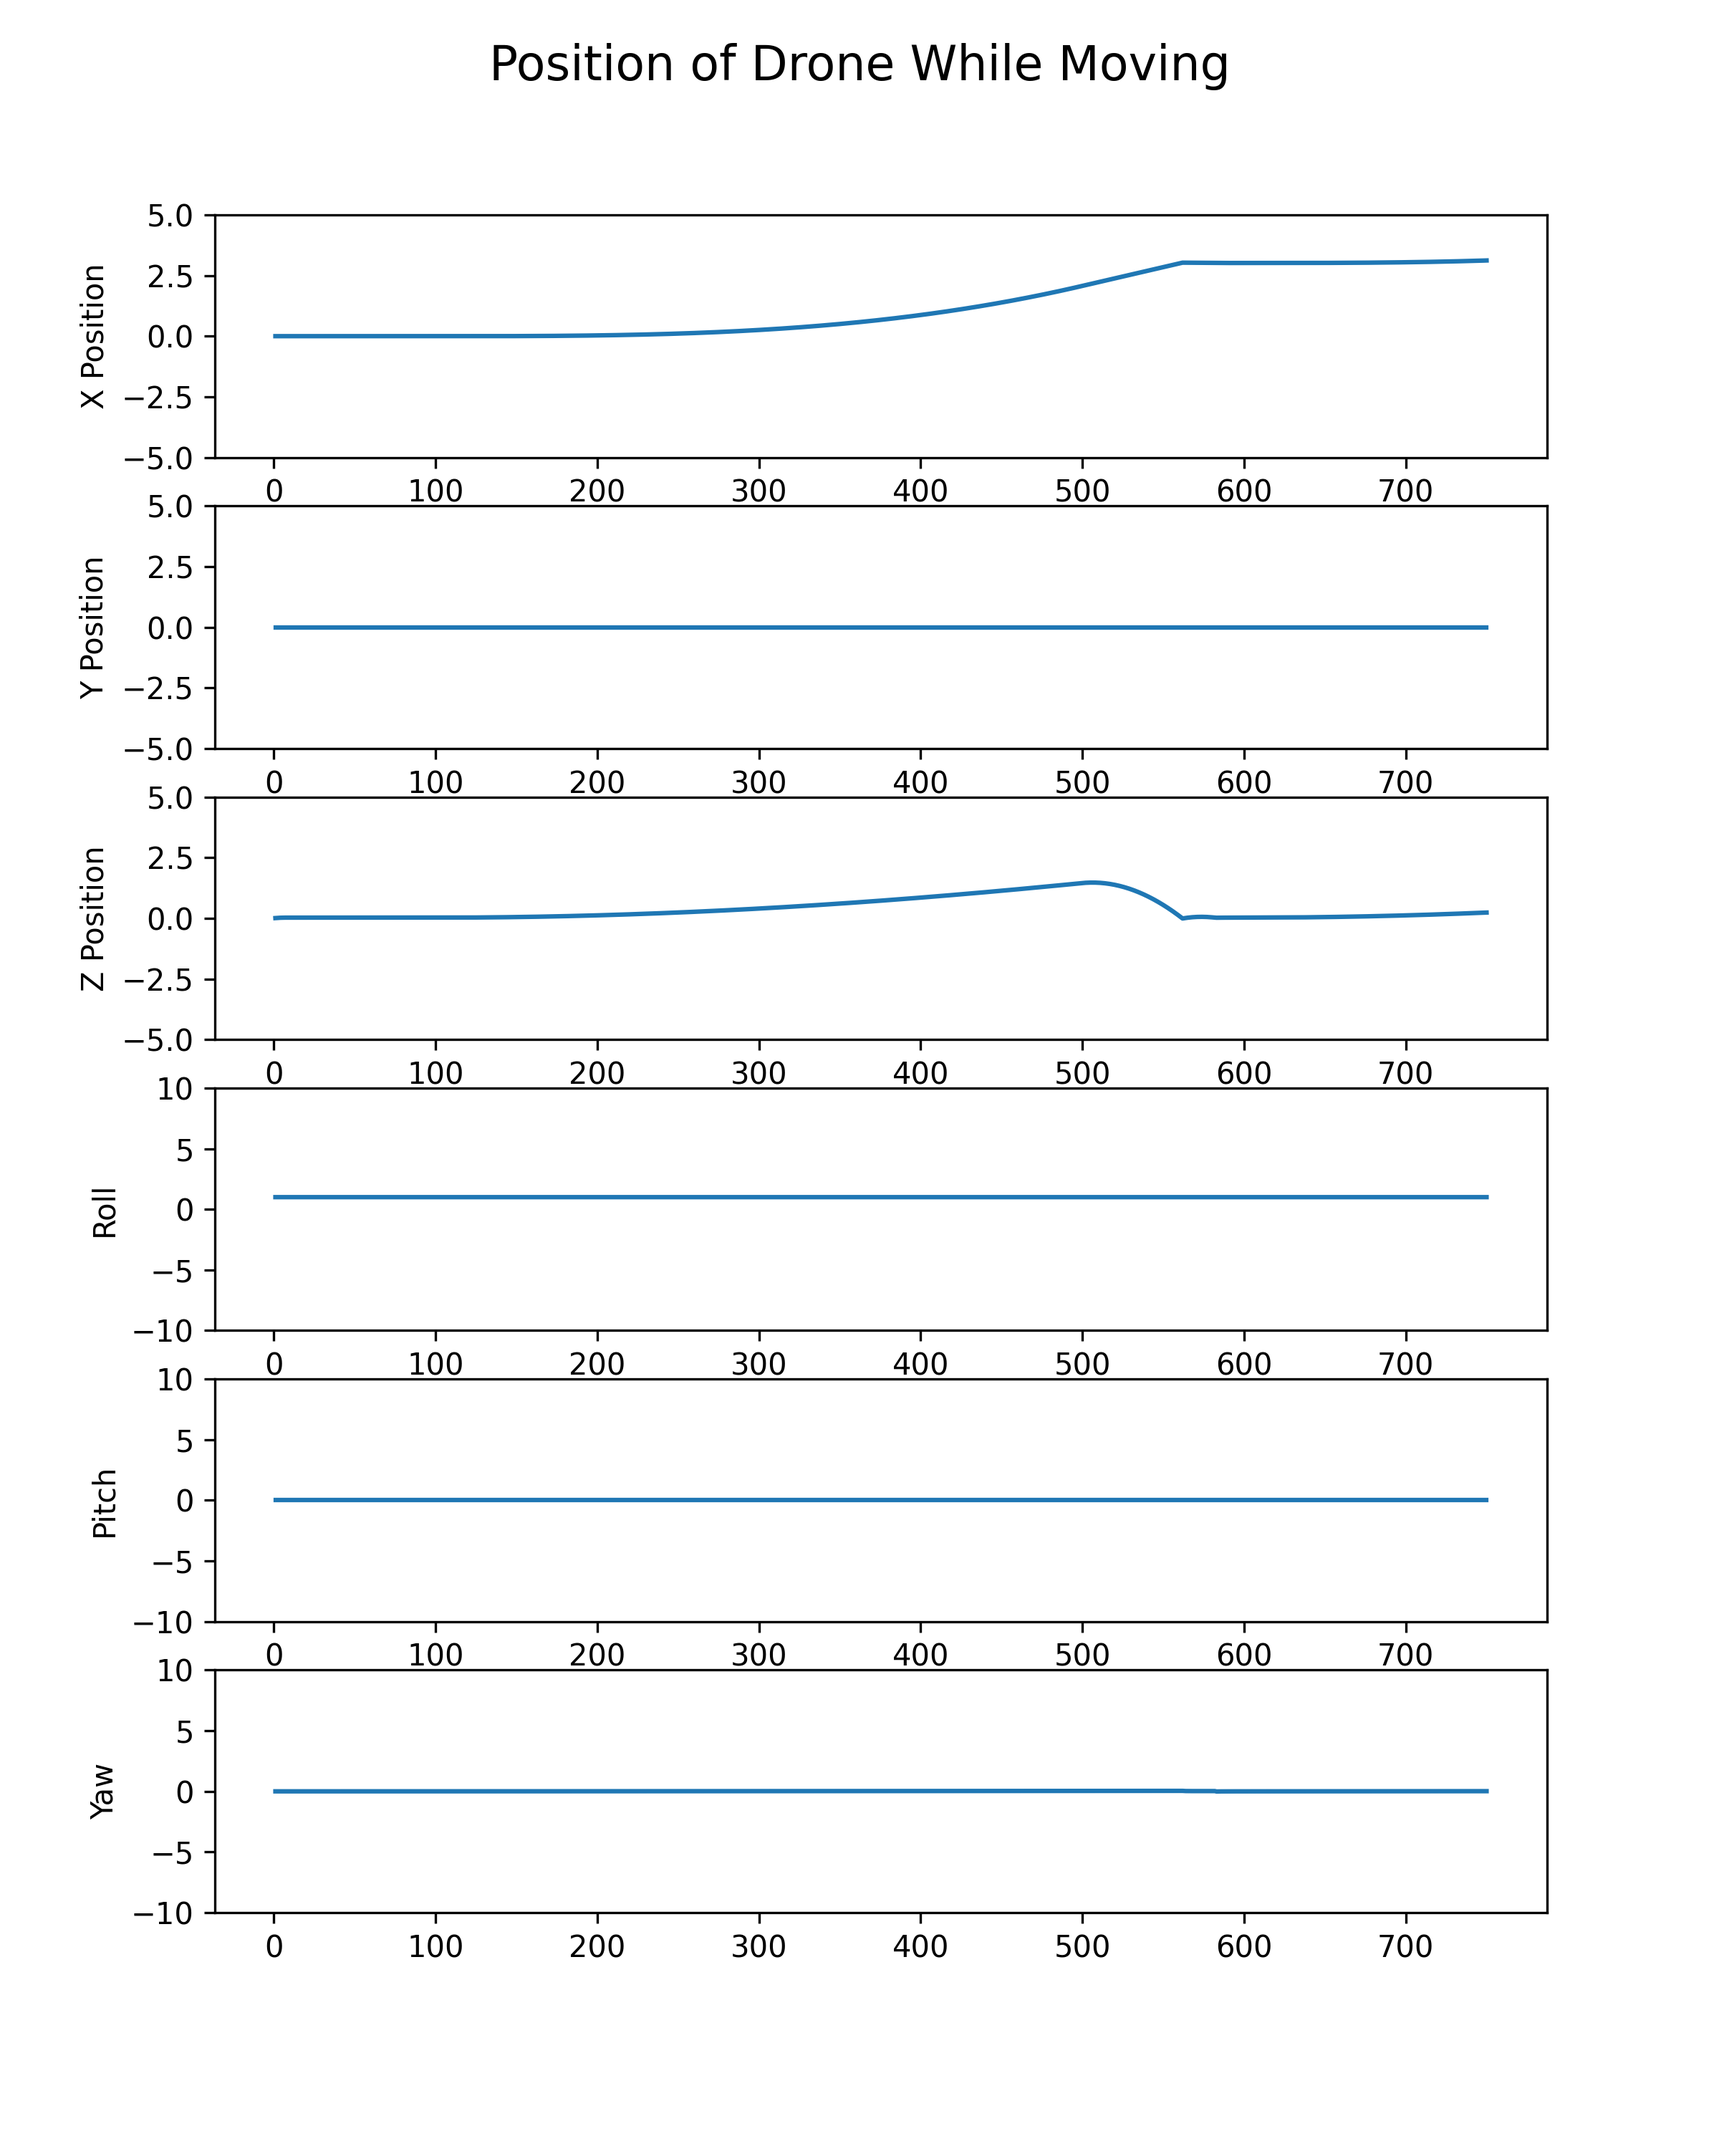
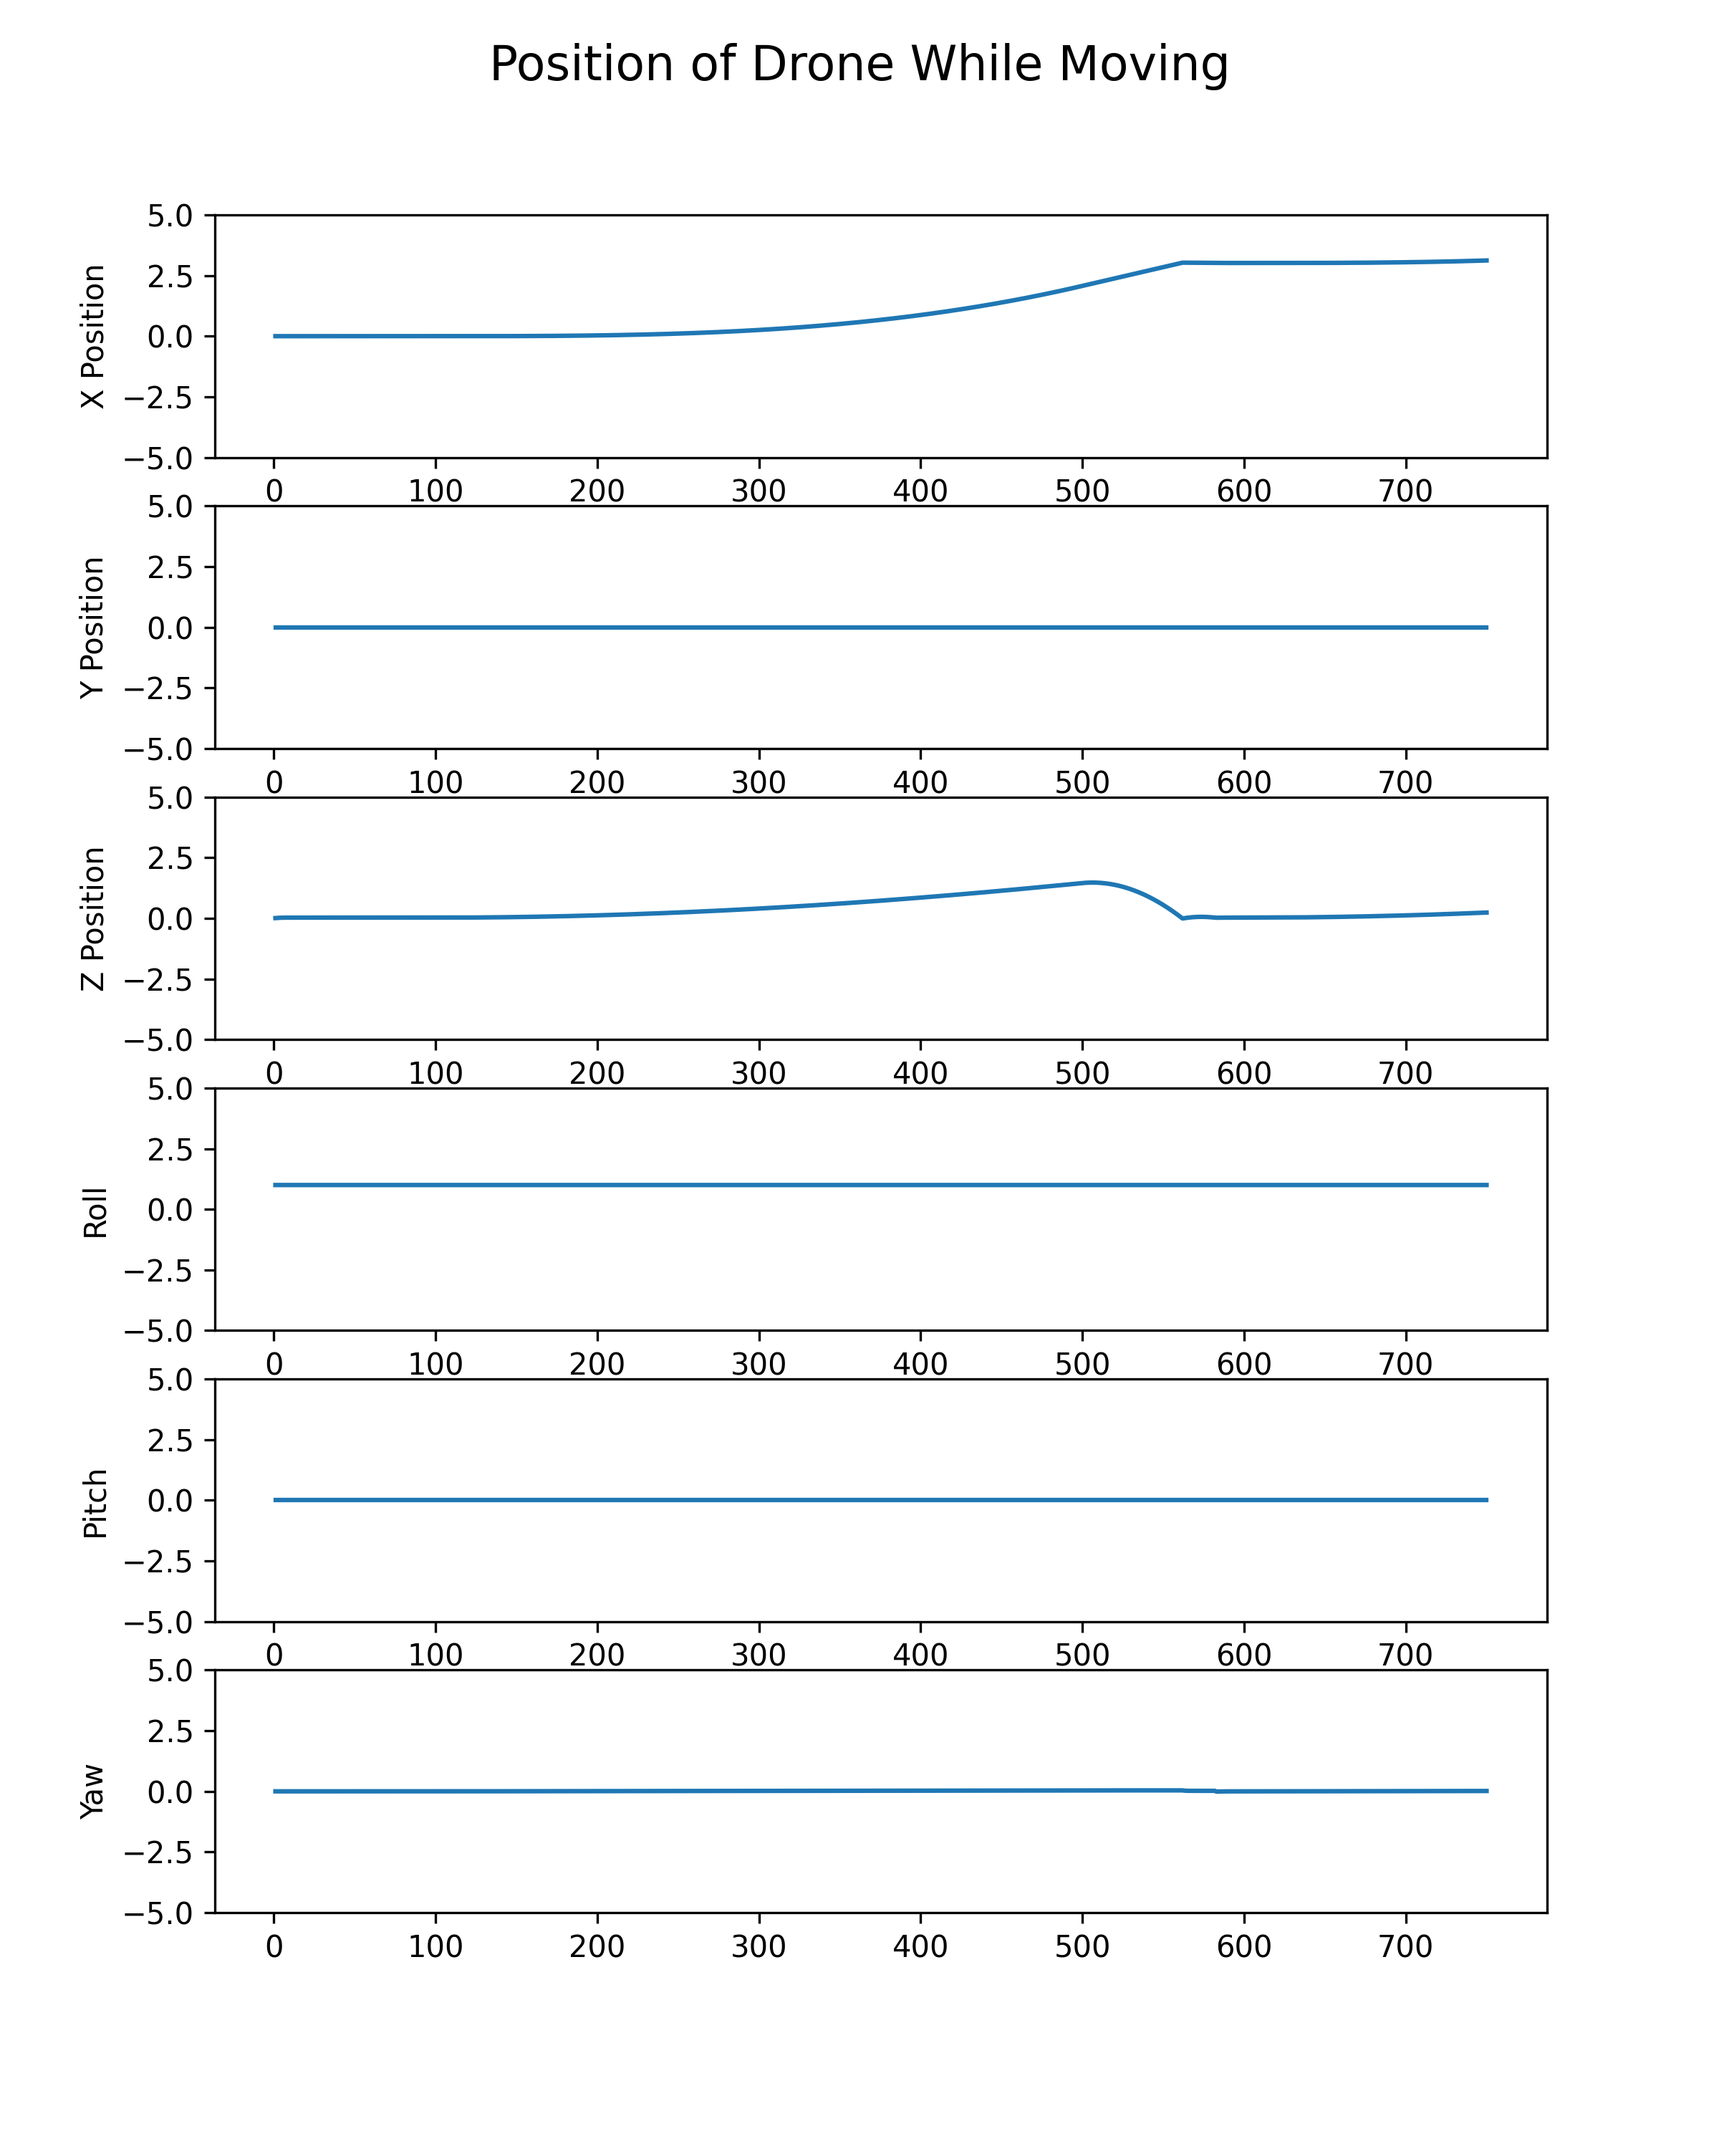
updated code

diff --git a/TestingDrones2.py b/TestingDrones2.py
@@ -22,7 +22,7 @@ with mujoco.viewer.launch_passive(m, d) as viewer:
   rolllist =[]
   pitchlist =[]
   yawlist =[]
-  while viewer.is_running() and timestep < 750:
+  while viewer.is_running() and timestep < 1300:
     i += 1
     timestep += 1
     timesteplist.append(timestep)
@@ -31,10 +31,14 @@ with mujoco.viewer.launch_passive(m, d) as viewer:
     # mj_step can be replaced with code that also evaluates
     # a policy and applies a control signal before stepping the physics.
     mujoco.mj_step(m, d)
-    if i > 100 and i < 500:
+    if i > 100 and i < 300:
       control_signals = np.array([4, 0, 0.02, 0])
-    elif i > 500:
-      i = 0
+    elif i > 400 and i < 600:
+      control_signals = np.array([4, 0.02, 0, 0])
+    elif i > 700 and i < 900:
+      control_signals = np.array([4, 0, -0.02, 0])
+    elif i > 1000 and i < 1200:
+      control_signals = np.array([4, -0.02, 0, 0])
     else:
       control_signals = np.array([0, 0, 0, 0])
     
@@ -69,11 +73,7 @@ with mujoco.viewer.launch_passive(m, d) as viewer:
     if time_until_next_step > 0:
       time.sleep(time_until_next_step)
 
-print(xlist)
-print(ylist)
-print(zlist)
-print("Time step list:")
-print(timesteplist)
+print(rolllist)
 
 # Create a figure and subplots
 fig, axs = plt.subplots(6, 1, figsize=(8, 10))
@@ -81,39 +81,39 @@ fig, axs = plt.subplots(6, 1, figsize=(8, 10))
 # Plot x position over time
 axs[0].plot(timesteplist, xlist)
 axs[0].set_ylabel('X Position')
-axs[0].set_ylim([-5, 5])
+axs[0].set_ylim([-1, 1])
 
 # Plot y position over time
 axs[1].plot(timesteplist, ylist)
 axs[1].set_ylabel('Y Position')
-axs[1].set_ylim([-5, 5])
+axs[1].set_ylim([-1, 1])
 
 # Plot z position over time
 axs[2].plot(timesteplist, zlist)
 axs[2].set_ylabel('Z Position')
 axs[2].set_xlabel('Time')
-axs[2].set_ylim([-5, 5])
+axs[2].set_ylim([-1, 1])
 
 # Plot roll position over time
 axs[3].plot(timesteplist, rolllist)
 axs[3].set_ylabel('Roll')
-axs[3].set_ylim([-10, 10])
+axs[3].set_ylim([-5, 5])
 
 # Plot pitch position over time
 axs[4].plot(timesteplist, pitchlist)
 axs[4].set_ylabel('Pitch')
-axs[4].set_ylim([-10, 10])
+axs[4].set_ylim([-5, 5])
 
 # Plot yaw position over time
 axs[5].plot(timesteplist, yawlist)
 axs[5].set_ylabel('Yaw')
-axs[5].set_ylim([-10, 10])
+axs[5].set_ylim([-5, 5])
 
 # Adjust the layout to avoid overlapping labels
 #plt.tight_layout()
 
 # Show the plot
 plt.subplots_adjust(top=0.9)
-fig.suptitle('Position of Drone While Moving', fontsize=16)
-plt.savefig('moving_position_plot.png', dpi=300)
+fig.suptitle('Position of Drone While Turning', fontsize=16)
+plt.savefig('turning_position_plot.png', dpi=300)
 plt.show()
